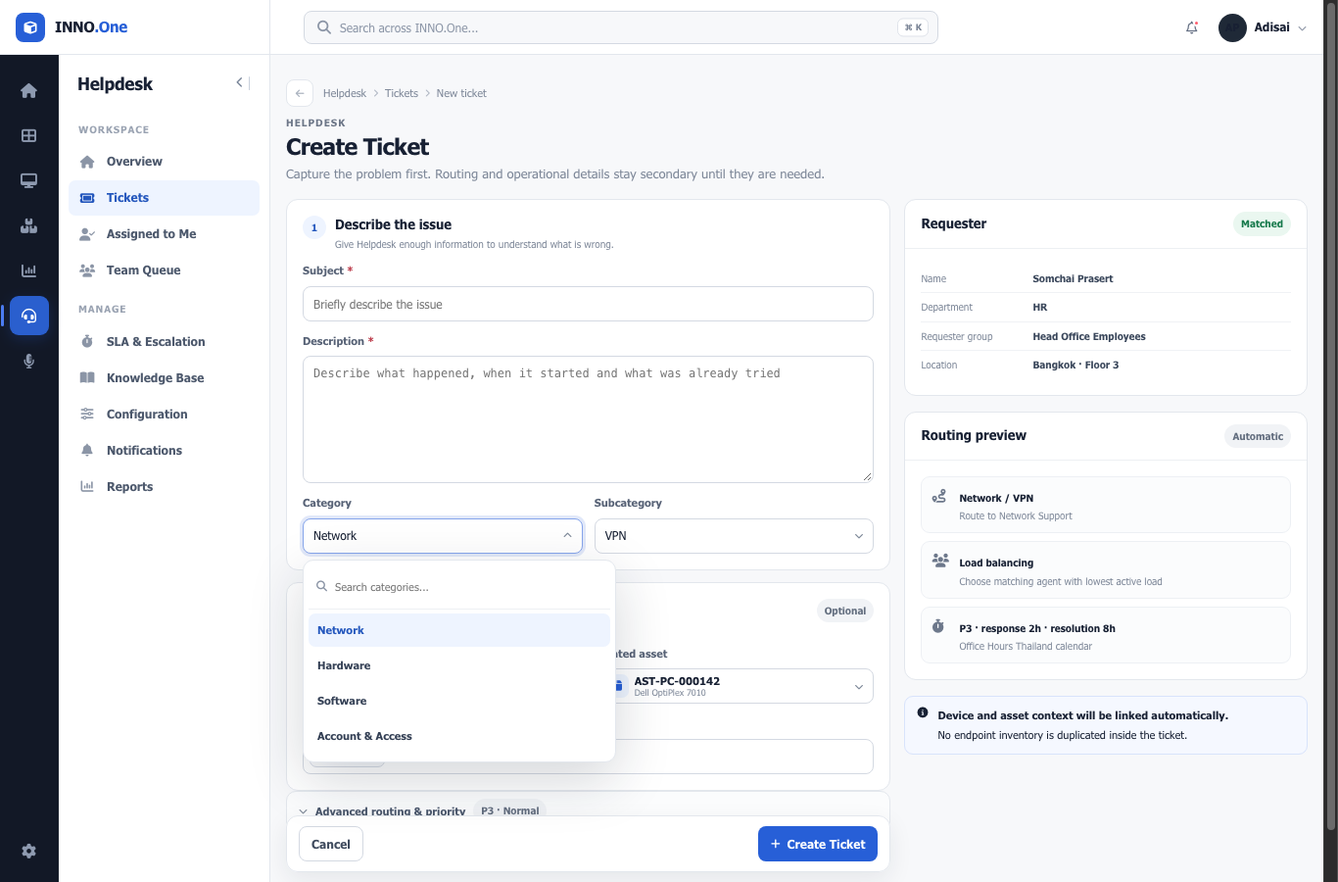
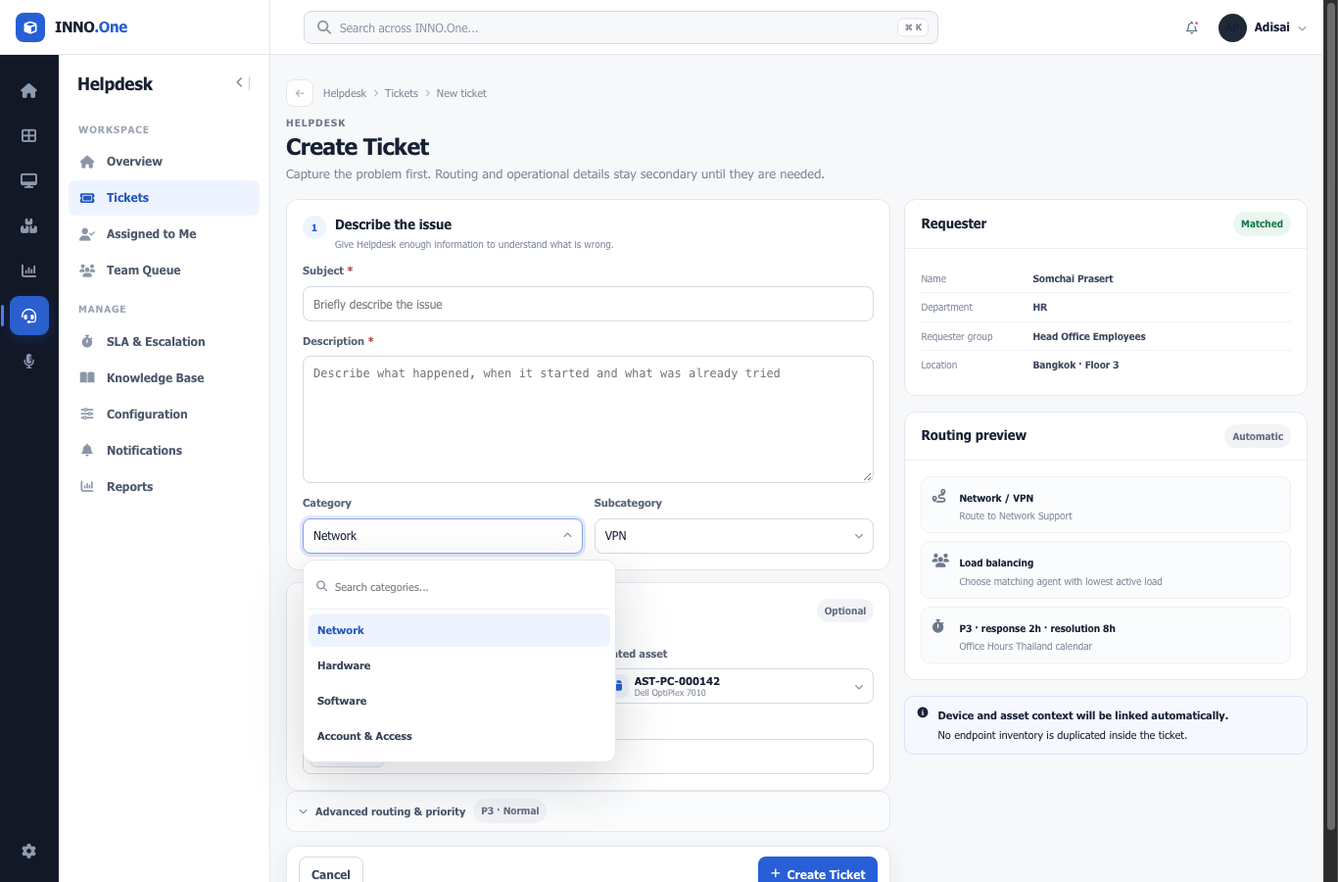
fix: refine action footer docking and builder hierarchy

Changed region(s): [[0.5534, 0.9333, 0.6764, 1.0], [0.2152, 0.9333, 0.2767, 1.0]]

diff --git a/asset-qr.html b/asset-qr.html
@@ -11,7 +11,7 @@
 <label class="qr-select-row" data-search="ast-pc-000178 hp prodesk 600 finance"><input class="qr-asset-check" type="checkbox" data-id="AST-PC-000178"><span class="row-icon"><i class="fa-solid fa-computer"></i></span><span class="grow"><b>AST-PC-000178</b><small>HP ProDesk 600 · Finance Pool · HP-73382</small></span><span class="asset-state repair">Repair</span></label>
 </div></div>
 <div class="ux-section" id="labelSetup"><div class="ux-section-head"><div class="ux-section-title"><span class="ux-step-badge">2</span><div><h3>Label setup</h3><p>Set the physical format once for all selected assets.</p></div></div></div><div class="form"><div class="split"><div class="field"><label>Label size</label><select id="labelSize" data-inno-display="segmented"><option>50 × 30 mm</option><option>40 × 25 mm</option><option>60 × 40 mm</option></select></div><div class="field"><label>Copies per asset</label><select data-inno-display="segmented"><option>1</option><option>2</option><option>3</option></select></div></div><div class="field"><label>Label content</label><div class="label-options"><label><input type="checkbox" checked> Asset No.</label><label><input type="checkbox" checked> Model</label><label><input type="checkbox"> Serial No.</label><label><input type="checkbox"> Company name</label></div></div></div></div>
-<div class="ux-section"><div class="ux-section-head"><div class="ux-section-title"><span class="ux-step-badge">3</span><div><h3>Print preview</h3><p>Generated labels contain an opaque asset token only.</p></div></div><button class="btn secondary" id="generateQrBtn"><i class="fa-solid fa-qrcode"></i>Regenerate</button></div><div class="qr-grid qr-generated" id="generatedQrGrid">
+<div class="ux-section"><div class="ux-section-head"><div class="ux-section-title"><span class="ux-step-badge">3</span><div><h3>Print preview</h3><p>Generated labels contain an opaque asset token only.</p></div></div></div><div class="qr-grid qr-generated" id="generatedQrGrid">
 <div class="qr-label" data-qr-id="AST-PC-000142"><div class="small"><b>INNO.One Asset</b></div><div class="qr-code"><i class="fa-solid fa-qrcode"></i></div><div class="asset-id">AST-PC-000142</div><div class="tiny muted">Dell OptiPlex 7010</div><small class="qr-token">token · a7f4••••92bd</small></div>
 <div class="qr-label" data-qr-id="AST-NB-000087"><div class="small"><b>INNO.One Asset</b></div><div class="qr-code"><i class="fa-solid fa-qrcode"></i></div><div class="asset-id">AST-NB-000087</div><div class="tiny muted">Lenovo ThinkPad T14</div><small class="qr-token">token · b18c••••110e</small></div>
 <div class="qr-label" data-qr-id="AST-MON-000311"><div class="small"><b>INNO.One Asset</b></div><div class="qr-code"><i class="fa-solid fa-qrcode"></i></div><div class="asset-id">AST-MON-000311</div><div class="tiny muted">Dell P2425H</div><small class="qr-token">token · c01a••••7ff3</small></div>
@@ -20,9 +20,9 @@
 <aside class="ux-qr-aside"><div class="card card-pad"><div class="section-title"><div><h3>Print job</h3><div class="small muted">Current selection</div></div><span class="tag success"><i class="fa-solid fa-shield-halved"></i>Protected</span></div><div class="mobile-info-list"><div><span>Assets</span><b>Selected assets only</b></div><div><span>Token</span><b>Opaque asset token</b></div><div><span>Lookup</span><b>Authenticated</b></div><div><span>Output</span><b>Physical QR label</b></div></div></div>
 <details class="ux-advanced"><summary>How QR security works</summary><div class="ux-advanced-body"><div class="qr-security-grid"><div><i class="fa-solid fa-key"></i><span><b>Opaque token</b><small>QR does not expose serial, owner or inventory data.</small></span></div><div><i class="fa-solid fa-user-shield"></i><span><b>Authenticated lookup</b><small>Mobile signs in before loading the asset record.</small></span></div><div><i class="fa-solid fa-clock-rotate-left"></i><span><b>Audit trail</b><small>Scans can be recorded by the future backend.</small></span></div></div></div></details>
 <details class="ux-advanced"><summary>Android mobile integration</summary><div class="ux-advanced-body"><div class="surface-boundary-card"><i class="fa-solid fa-mobile-screen"></i><div><b>INNO.One Assets Mobile</b><span>Android scans the printed token and loads Hardware / Software after authentication. Scanner UI remains a separate Mobile surface.</span></div></div><div class="surface-boundary-flow"><span>Web: Generate / Print</span><i class="fa-solid fa-arrow-right"></i><span>Physical QR</span><i class="fa-solid fa-arrow-right"></i><span>Android: Scan / Lookup</span></div></div></details></aside></div>
-<div class="inno-builder-footer"><div class="inno-builder-footer-end"><button class="btn secondary" id="labelSettingsBtn"><i class="fa-solid fa-sliders"></i>Label Setup</button><button class="btn" id="printSelectedBtn"><i class="fa-solid fa-print"></i>Print Selected</button></div></div>
+<div class="inno-builder-footer"><div class="inno-builder-footer-end"><button class="btn secondary" id="generateQrBtn"><i class="fa-solid fa-rotate"></i>Regenerate Preview</button><button class="btn" id="printSelectedBtn"><i class="fa-solid fa-print"></i>Print Selected</button></div></div>
 <div class="maintenance-footnote"><i class="fa-solid fa-circle-info"></i><span>QR generation, Android camera access, token validation และ asset API lookup เป็น UI prototype เท่านั้น ยังไม่มี backend/mobile runtime จริง</span></div>
 </section></main></div>
 <script>
-const checks=[...document.querySelectorAll(".qr-asset-check")],count=document.getElementById("selectedCount"),grid=[...document.querySelectorAll("[data-qr-id]")];function updateQrSelection(){const selected=checks.filter(c=>c.checked).map(c=>c.dataset.id);count.textContent=selected.length+" selected";grid.forEach(x=>x.hidden=!selected.includes(x.dataset.qrId));document.getElementById("printSelectedBtn").disabled=selected.length===0}checks.forEach(c=>c.onchange=updateQrSelection);document.getElementById("assetQrSearch").oninput=e=>{const q=e.target.value.toLowerCase();document.querySelectorAll(".qr-select-row").forEach(r=>r.style.display=r.dataset.search.includes(q)?"":"none")};document.getElementById("selectAllBtn").onclick=()=>{const all=checks.every(c=>c.checked);checks.forEach(c=>c.checked=!all);document.getElementById("selectAllBtn").textContent=all?"Select all":"Clear all";updateQrSelection()};document.getElementById("generateQrBtn").onclick=()=>window.INNOInteractions?.toast?.("QR labels regenerated for selected assets","success");document.getElementById("labelSettingsBtn").onclick=()=>{document.getElementById("labelSetup").scrollIntoView({behavior:'smooth',block:'center'});setTimeout(()=>document.getElementById("labelSize-trigger")?.focus(),320)};document.getElementById("printSelectedBtn").onclick=()=>{window.INNOInteractions?.toast?.("Print preview prepared for "+checks.filter(c=>c.checked).length+" labels","success");setTimeout(()=>window.print(),250)};updateQrSelection();
+const checks=[...document.querySelectorAll(".qr-asset-check")],count=document.getElementById("selectedCount"),grid=[...document.querySelectorAll("[data-qr-id]")];function updateQrSelection(){const selected=checks.filter(c=>c.checked).map(c=>c.dataset.id);count.textContent=selected.length+" selected";grid.forEach(x=>x.hidden=!selected.includes(x.dataset.qrId));document.getElementById("printSelectedBtn").disabled=selected.length===0}checks.forEach(c=>c.onchange=updateQrSelection);document.getElementById("assetQrSearch").oninput=e=>{const q=e.target.value.toLowerCase();document.querySelectorAll(".qr-select-row").forEach(r=>r.style.display=r.dataset.search.includes(q)?"":"none")};document.getElementById("selectAllBtn").onclick=()=>{const all=checks.every(c=>c.checked);checks.forEach(c=>c.checked=!all);document.getElementById("selectAllBtn").textContent=all?"Select all":"Clear all";updateQrSelection()};document.getElementById("generateQrBtn").onclick=()=>window.INNOInteractions?.toast?.("QR labels regenerated for selected assets","success");document.getElementById("printSelectedBtn").onclick=()=>{window.INNOInteractions?.toast?.("Print preview prepared for "+checks.filter(c=>c.checked).length+" labels","success");setTimeout(()=>window.print(),250)};updateQrSelection();
 </script><script src="inno-inputs.js"></script><script src="inno-interactions.js"></script><script src="inno-states.js"></script><script src="platform-shell.js"></script><script src="inno-responsive.js"></script><script src="inno-navigation.js"></script><script src="inno-icons.js"></script><script src="inno-design-contract.js"></script></body></html>

diff --git a/report-builder.html b/report-builder.html
@@ -11,7 +11,7 @@
 <div class="field"><label>Filters</label><div class="ux-filter-builder"><div class="ux-filter-row"><select aria-label="Department field" disabled><option>Department</option></select><select aria-label="Department operator" data-inno-display="segmented"><option>is</option><option>is not</option></select><select aria-label="Department value" data-inno-combobox><option>All</option><option>HR</option><option>Finance</option><option>IT</option></select></div><div class="ux-filter-row"><select aria-label="Status field" disabled><option>Status</option></select><select aria-label="Status operator" data-inno-display="segmented"><option>is</option><option>is not</option></select><select aria-label="Status value"><option>All</option><option>Online</option><option>Offline</option></select></div></div></div>
 <div class="field"><label>Date range</label><select data-inno-display="segmented"><option>Last 30 days</option><option>This month</option><option>Custom</option></select></div>
 <details class="ux-advanced"><summary>Grouping & sorting</summary><div class="ux-advanced-body"><div class="form"><div class="field"><label>Group by</label><select><option>Brand</option><option>Department</option><option>Operating System</option><option>None</option></select></div><div class="field"><label>Sort</label><select><option>Count · Descending</option><option>Name · Ascending</option></select></div></div></div></details>
-<button class="btn" onclick="refreshPreview()"><i class="fa-solid fa-play"></i>Run Preview</button></div></div></div>
+<div class="ux-action-strip"><button class="btn secondary" onclick="refreshPreview()"><i class="fa-solid fa-play"></i>Run Preview</button></div></div></div></div>
 
 <div class="panel-stack"><div class="panel" id="reportPreviewPanel"><div class="panel-head"><div><h3>Preview</h3><div class="meta" id="previewMeta">Hardware Inventory · 128 rows</div></div></div><div class="panel-body"><div class="preview-chart"><div class="preview-bar" style="height:80%"><span>43</span></div><div class="preview-bar" style="height:68%"><span>37</span></div><div class="preview-bar" style="height:54%"><span>29</span></div><div class="preview-bar" style="height:35%"><span>19</span></div></div></div><div class="table-wrap"><table class="table"><thead><tr><th>Computer Name</th><th>Brand</th><th>Model</th><th>Serial</th></tr></thead><tbody><tr><td>DESKTOP-HR-014</td><td>Dell</td><td>OptiPlex 7010</td><td>DL7K-88421</td></tr><tr><td>NOTEBOOK-IT-003</td><td>Lenovo</td><td>ThinkPad T14</td><td>LNV-23314</td></tr><tr><td>PC-FIN-021</td><td>HP</td><td>ProDesk 600</td><td>HP-73382</td></tr></tbody></table></div></div>
 <div class="panel"><div class="panel-head"><h3>Definition summary</h3><span class="tag success">Reusable</span></div><div class="panel-body"><div class="codebox" id="definition">dataset: devices.hardware

diff --git a/inno-interactions.js b/inno-interactions.js
@@ -324,6 +324,9 @@ function ensureSaveState(scope){
   area.insertBefore(indicator,save);
   return indicator;
 }
+function refreshActionDocks(){
+  requestAnimationFrame(()=>document.querySelectorAll(".inno-editor-footer:not([data-inno-dock-disabled])").forEach(f=>f.__innoDockUpdate?.()));
+}
 function setDirtyState(scopeOrNode,status="unsaved"){
   const scope=scopeOrNode?.matches?.(".content,.arch-editor,.form-layout,.builder-grid,.settings-layout,.notification-grid,.ds-dialog,.drawer")?scopeOrNode:scopeFor(scopeOrNode);
   if(!scope)return;
@@ -337,6 +340,7 @@ function setDirtyState(scopeOrNode,status="unsaved"){
   if(status==="unsaved"||status==="error"){scope.dataset.innoDirty="true";dirtyScopes.add(scope)}
   if(status==="clean"||status==="saved"){delete scope.dataset.innoDirty;dirtyScopes.delete(scope)}
   document.documentElement.dataset.uiDirtyCount=String(dirtyScopes.size);
+  refreshActionDocks();
 }
 function markClean(scopeOrNode,opts={}){
   const scope=scopeOrNode?.dataset?.innoDirty!==undefined||scopeOrNode?.querySelector?.("[data-inno-save]")?scopeOrNode:scopeFor(scopeOrNode);
@@ -509,7 +513,7 @@ function enhanceComponentSemantics(){
 }
 
 function enhanceActionDock(){
-  const selector=".inno-editor-footer:not([data-inno-dock-disabled]),.inno-builder-footer:not([data-inno-dock-disabled]),.inno-wizard-footer:not([data-inno-dock-disabled])";
+  const selector=".inno-editor-footer:not([data-inno-dock-disabled])";
   const footers=[...document.querySelectorAll(selector)];
   if(!footers.length)return;
 
@@ -539,7 +543,9 @@ function enhanceActionDock(){
       const ownerRect=owner.getBoundingClientRect();
       const footerHeight=Math.max(58,Math.round(natural.height));
       const dockBottom=window.innerHeight-(window.innerWidth<=850?6:10);
-      const needsDock=natural.bottom>dockBottom && ownerRect.top<dockBottom-footerHeight && ownerRect.bottom>72;
+      const scope=scopeFor(footer);
+      const isDirty=scope?.dataset?.innoDirty==="true";
+      const needsDock=isDirty && natural.bottom>dockBottom && ownerRect.top<dockBottom-footerHeight && ownerRect.bottom>72;
 
       if(needsDock){
         placeholder.style.height=footerHeight+"px";

diff --git a/inno-design-system.css b/inno-design-system.css
@@ -869,8 +869,8 @@ body{line-height:1.45;text-rendering:optimizeLegibility}
 
 /* UX/UI Final Consistency Pass — canonical action/layout contract */
 .inno-editor-footer{
-  position:sticky;
-  bottom:10px;
+  position:static;
+  bottom:auto;
   z-index:12;
   display:flex;
   align-items:center;
@@ -930,8 +930,8 @@ body{line-height:1.45;text-rendering:optimizeLegibility}
 
 /* Canonical editor / builder / wizard footer alignment */
 .inno-editor-footer,.inno-builder-footer,.inno-wizard-footer{
-  position:sticky;
-  bottom:10px;
+  position:static;
+  bottom:auto;
   z-index:12;
   display:flex;
   align-items:center;
@@ -948,7 +948,7 @@ body{line-height:1.45;text-rendering:optimizeLegibility}
 }
 .inno-editor-footer-start,.inno-wizard-footer-start{margin-right:auto}
 .inno-editor-footer-end,.inno-builder-footer-end,.inno-wizard-footer-end{display:flex;align-items:center;gap:8px;margin-left:auto}
-.inno-builder-footer{position:sticky}
+.inno-builder-footer{position:static}
 @media(max-width:520px){
   .inno-editor-footer,.inno-builder-footer,.inno-wizard-footer{align-items:stretch;flex-direction:column}
   .inno-editor-footer-start,.inno-editor-footer-end,.inno-builder-footer-end,.inno-wizard-footer-start,.inno-wizard-footer-end{width:100%;margin-left:0;margin-right:0}
@@ -983,12 +983,10 @@ body{line-height:1.45;text-rendering:optimizeLegibility}
 .inno-action-dock-owner.has-docked-actions{padding-bottom:72px!important}
 @media(max-width:850px){
   .inno-editor-footer,.inno-builder-footer,.inno-wizard-footer{
-    position:sticky;
-    bottom:6px;
+    position:static;
+    bottom:auto;
   }
-  .inno-editor-footer.is-docked,
-  .inno-builder-footer.is-docked,
-  .inno-wizard-footer.is-docked{bottom:6px!important}
+  .inno-editor-footer.is-docked{bottom:6px!important}
 }
 
 /* Primary work comes before supporting saved definitions on narrow Inventory Query layouts. */

diff --git a/qa-ux-input-browser.py b/qa-ux-input-browser.py
@@ -53,7 +53,7 @@ for w in (1366,1024,768):
     route_fails=[]
     for page in WEB:
         c.nav(page,"?qaMetrics=1")
-        m=c.eval("""(()=>{const sels=[...document.querySelectorAll('select')];const expected=sels.filter(s=>!s.hasAttribute('data-inno-native')&&!s.closest('.mock-desktop,.android-phone')).length;const enhanced=sels.filter(s=>s.dataset.innoEnhanced).length;const visibleNative=sels.filter(s=>{const r=s.getBoundingClientRect(),cs=getComputedStyle(s);return cs.position!=='absolute'&&cs.display!=='none'&&r.width>3&&r.height>3}).length;const visible=e=>{const r=e.getBoundingClientRect(),cs=getComputedStyle(e);return cs.display!=='none'&&cs.visibility!=='hidden'&&r.width>0&&r.height>0};const footers=[...document.querySelectorAll('.inno-editor-footer,.inno-builder-footer,.inno-wizard-footer')].filter(visible);const footerPositions=[...new Set(footers.map(x=>getComputedStyle(x).position))];const highDisabled=[...document.querySelectorAll('.page-head .actions .btn[disabled],.page-head .actions .btn[aria-disabled="true"],.resource-actions .btn[disabled],.resource-actions .btn[aria-disabled="true"]')].filter(visible).length;const footerInViewport=footers.every(x=>{const r=x.getBoundingClientRect();return r.top>=0&&r.bottom<=innerHeight+2});return {overflow:document.documentElement.scrollWidth>innerWidth+2,inputSystem:document.documentElement.dataset.innoInputSystem==='1',selects:sels.length,expected,enhanced,visibleNative,popovers:document.querySelectorAll('.inno-picker-popover').length,sideHash:[...document.querySelectorAll('.side a')].filter(a=>(a.getAttribute('href')||'').includes('#')).length,footerPositions,footerInViewport,highDisabled}})()""")
+        m=c.eval("""(()=>{const sels=[...document.querySelectorAll('select')];const expected=sels.filter(s=>!s.hasAttribute('data-inno-native')&&!s.closest('.mock-desktop,.android-phone')).length;const enhanced=sels.filter(s=>s.dataset.innoEnhanced).length;const visibleNative=sels.filter(s=>{const r=s.getBoundingClientRect(),cs=getComputedStyle(s);return cs.position!=='absolute'&&cs.display!=='none'&&r.width>3&&r.height>3}).length;const visible=e=>{const r=e.getBoundingClientRect(),cs=getComputedStyle(e);return cs.display!=='none'&&cs.visibility!=='hidden'&&r.width>0&&r.height>0};const highDisabled=[...document.querySelectorAll('.page-head .actions .btn[disabled],.page-head .actions .btn[aria-disabled="true"],.resource-actions .btn[disabled],.resource-actions .btn[aria-disabled="true"]')].filter(visible).length;const cleanDocked=document.querySelectorAll('.inno-editor-footer.is-docked,.inno-builder-footer.is-docked,.inno-wizard-footer.is-docked').length;return {overflow:document.documentElement.scrollWidth>innerWidth+2,inputSystem:document.documentElement.dataset.innoInputSystem==='1',selects:sels.length,expected,enhanced,visibleNative,popovers:document.querySelectorAll('.inno-picker-popover').length,sideHash:[...document.querySelectorAll('.side a')].filter(a=>(a.getAttribute('href')||'').includes('#')).length,cleanDocked,highDisabled}})()""")
         bad=[]
         if m["overflow"]:bad.append("overflow")
         if not m["inputSystem"]:bad.append("input-system-missing")
@@ -62,7 +62,7 @@ for w in (1366,1024,768):
         if m["popovers"]:bad.append("orphan-popover")
         if m["sideHash"]:bad.append(f"side-hash-links={m['sideHash']}")
         if m["highDisabled"]:bad.append(f"high-emphasis-disabled={m['highDisabled']}")
-        if m["footerPositions"] and not m["footerInViewport"]:bad.append(f"footer-not-visible={m['footerPositions']}")
+        if m["cleanDocked"]:bad.append(f"clean-footer-docked={m['cleanDocked']}")
         if bad:route_fails.append((page,bad))
     check(f"All {len(WEB)} Web routes pass Input System at {w}",not route_fails,route_fails[:6])
 # Ticket: combobox, resource picker and segmented controls retain backing select events.
@@ -218,13 +218,15 @@ check("Report catalog uses query route and restores selected report",c.eval("doc
 # Final Action/Layout contract regression.
 c.viewport(1366);c.nav("endpoint-policies.html")
 check("Endpoint Policies defaults to Policies editor view",c.eval("document.querySelector('[data-view=policies]').hidden===false && document.querySelector('[data-view=compliance]').hidden===true && document.querySelector('[data-policy-view=policies]').classList.contains('active')"))
-check("Endpoint Policies editor footer belongs to editor pane",c.eval("document.querySelector('.inno-editor-pane > .inno-editor-footer')!==null && getComputedStyle(document.querySelector('.inno-editor-footer')).position==='sticky'"))
+check("Endpoint Policies editor footer belongs to editor pane",c.eval("document.querySelector('.inno-editor-pane > .inno-editor-footer')!==null && getComputedStyle(document.querySelector('.inno-editor-footer')).position==='static'"))
 check("Endpoint Policies has no unavailable competing footer action",c.eval("document.querySelectorAll('.inno-editor-footer [disabled],.inno-editor-footer [aria-disabled=\"true\"]').length===0 && !document.body.textContent.includes('Preview Impact')"))
 c.nav("endpoint-policies.html","?view=compliance")
 check("Endpoint Policies Compliance is a separate view",c.eval("document.querySelector('[data-view=policies]').hidden===true && document.querySelector('[data-view=compliance]').hidden===false && document.querySelector('[data-policy-view=compliance]').classList.contains('active')"))
 
 c.viewport(768);c.nav("endpoint-policies.html")
-check("Editor footer stays visible at tablet width",c.eval("""(()=>{const f=document.querySelector('.inno-editor-footer'),r=f.getBoundingClientRect();return r.top>=0&&r.bottom<=innerHeight+2&&(f.classList.contains('is-docked')||['sticky','fixed'].includes(getComputedStyle(f).position))})()"""))
+check("Clean editor footer does not cover tablet content",c.eval("""(()=>{const f=document.querySelector('.inno-editor-footer');return !f.classList.contains('is-docked')&&getComputedStyle(f).position==='static'})()"""))
+c.eval("""(()=>{const r=[...document.querySelectorAll('input[name="usb"]')].find(x=>!x.checked);r.click()})()""");time.sleep(.06)
+check("Dirty editor footer docks to owning pane at tablet width",c.eval("""(()=>{const f=document.querySelector('.inno-editor-footer'),r=f.getBoundingClientRect(),owner=f.parentElement.getBoundingClientRect();return f.classList.contains('is-docked')&&getComputedStyle(f).position==='fixed'&&r.top>=0&&r.bottom<=innerHeight+2&&Math.abs(r.left-owner.left)<=2&&Math.abs(r.width-owner.width)<=2})()"""))
 
 c.viewport(1366);c.nav("device-query.html")
 check("Inventory Query actions belong to builder, not page header",c.eval("document.querySelector('.page-head .actions')===null && document.querySelector('.query-workspace > .inno-builder-footer #saveQuery')!==null && document.querySelector('.query-workspace > .inno-builder-footer #runQuery')!==null"))
@@ -237,7 +239,7 @@ check("Dynamic Group deep link opens builder tab",c.eval("document.querySelector
 check("Dynamic Group save belongs to builder footer",c.eval("document.querySelector('[data-panel=dynamic] > .inno-builder-footer [data-inno-save]')!==null && document.querySelectorAll('[data-panel=dynamic] button[disabled]').length===0"))
 
 c.nav("asset-qr.html")
-check("QR workflow actions moved out of page header",c.eval("document.querySelector('.page-head .actions')===null && document.querySelector('.inno-builder-footer #printSelectedBtn')!==null && document.querySelector('.inno-builder-footer #labelSettingsBtn')!==null"))
+check("QR workflow actions moved out of page header",c.eval("document.querySelector('.page-head .actions')===null && document.querySelector('.inno-builder-footer #printSelectedBtn')!==null && document.querySelector('.inno-builder-footer #generateQrBtn')!==null && !document.getElementById('labelSettingsBtn')"))
 
 print(f"checks={checks}")
 print(f"failures={len(fails)}")

diff --git a/INNO-One-Action-Layout-Contract.md b/INNO-One-Action-Layout-Contract.md
@@ -97,12 +97,12 @@ Editor content
 ┌────────────────────────────────────────────┐
 │ [Discard / Cancel]              [Save]     │
 └────────────────────────────────────────────┘
-       canonical sticky editor footer
+       canonical editor footer
 ```
 
 Rules:
 - Save/Create/Schedule/Apply belongs in the canonical editor footer.
-- The footer is sticky to the bottom of the editor column, not the whole browser viewport.
+- The footer sits at the end of the owning editor in normal flow. After that editor becomes dirty, it may dock to the bottom of the viewport while preserving the editor column width.
 - Primary action is always the right-most action.
 - Cancel/Discard is left-most when present.
 - Secondary preview/testing action may sit before Primary only when it is implemented and relevant.
@@ -136,7 +136,7 @@ Builder:
 ```
 
 Rules:
-- navigation actions live in a sticky builder/wizard footer.
+- navigation/final actions live in a canonical builder/wizard footer at the end of that workflow; they do not float over untouched content.
 - Back precedes Continue.
 - Final step changes Continue to the final command.
 - Preview belongs in the builder toolbar only if it updates an adjacent preview; otherwise use the footer.
@@ -314,9 +314,11 @@ Allowed:
 
 All breakpoints:
 - action footer belongs to the editor/builder/wizard that owns the pending change,
-- if the footer's natural position is below the viewport, it docks to the viewport edge while retaining the exact left/width of its owning pane,
-- once the natural footer reaches the viewport, it returns to document flow,
-- the owning pane reserves bottom safe space while docked so the final field/section can scroll clear of the action bar.
+- untouched screens keep action footers in normal document flow so buttons never cover content,
+- editor footers may dock only after the editor has unsaved changes,
+- a docked editor footer retains the exact left/width of its owning pane,
+- the owning pane reserves bottom safe space while docked so the final field/section can scroll clear of the action bar,
+- builder/wizard footers remain in normal flow unless a future workflow explicitly requires persistent navigation.
 
 Desktop:
 - editor footer aligns to the owning editor column, never the supporting aside or the full page by accident,
@@ -324,8 +326,8 @@ Desktop:
 
 Tablet / narrow (≤850px):
 - supporting aside moves below the primary editor,
-- the docked action footer uses the stacked editor width after the sidebar collapses,
-- the primary action remains visible while the user edits a long form.
+- dirty-state docking uses the stacked editor width after the sidebar collapses,
+- untouched content is never hidden behind an action bar.
 
 Mobile:
 - footer actions may stack only when necessary,

diff --git a/INNO-One-Next-Chat-Handoff.md b/INNO-One-Next-Chat-Handoff.md
@@ -767,10 +767,11 @@ Key changes:
 - Editor 18 / Builder 4 / Wizard 1 / Resource Detail 6 / Overview-List 54.
 - All 18 editors now use canonical `INNOActionFooter`; legacy editor footer classes = 0.
 - Builders use `inno-builder-footer`; Deployment uses `inno-wizard-footer`.
-- Long task footers dock to the exact owning pane while below the viewport and reserve bottom safe space.
+- Clean task footers stay in normal flow so they never cover untouched content; editor footers dock to the exact owning pane only after that editor has unsaved changes and reserve bottom safe space.
 - `endpoint-policies.html` was restructured into separate Policies and Compliance views; disabled Preview Impact no longer competes with Save.
 - Inventory Query puts Query Builder before Saved Queries on narrow layouts and contains wide results inside the table scroll region.
 - High-emphasis disabled actions = 0; multiple primary action-zone violations = 0.
 - Application hash links = 0; broken local routes = 0.
 
 Do not begin Backend implementation until the user explicitly asks. Further work after this freeze should be visual/content-specific QA or production frontend implementation.
+- Follow-up visual QA confirmed clean action bars no longer float over long forms; dirty-state editor docking is covered by browser regression.

diff --git a/INNO-One-UI-Prototype-Summary.md b/INNO-One-UI-Prototype-Summary.md
@@ -317,3 +317,8 @@ Legacy application-shell hash navigation has been removed. Distinct navigation j
 ## 18. Final Action/Layout consistency — 2026-09-25
 
 Design System V1.19 / UI Contract 1.13.0 adds a canonical action-placement contract across all 83 Web routes. Overview/List creation actions live in Page Headers, Resource Detail operations live in Resource Actions, and editor/builder/wizard commits live in pane-owned action footers. Endpoint Policies is the reference master/editor page and separates policy editing from compliance monitoring. Docked task footers preserve the owning pane width and reserve bottom safe space at desktop and narrow viewports.
+
+
+## 18. Action footer visual follow-up — 2026-09-25
+
+The Action/Layout freeze was visually refined after route-wide review. Clean pages keep editor/builder/wizard footers in normal document flow so actions do not obscure untouched content. Once an editor becomes dirty, its canonical editor footer may dock to the owning pane until the change is saved/discarded. QR Labels now uses `Regenerate Preview` + `Print Selected` as the final builder actions, and Report Builder treats `Run Preview` as a secondary workflow action while `Save Report` remains the final primary action.

diff --git a/INNO-One-Final-Visual-QA-Baseline.md b/INNO-One-Final-Visual-QA-Baseline.md
@@ -183,7 +183,7 @@ The canonical visual baseline now includes Design System V1.19 / UI Contract 1.1
 - Builder/Wizard actions use their owning footer zones.
 - Resource Detail operations stay in resource action zones.
 - Overview/List create actions remain in Page Headers while table tools stay with the table.
-- Docked task footers preserve editor-pane width and bottom safe space on long forms.
+- Clean action footers remain in normal flow; dirty editor footers may dock while preserving editor-pane width and bottom safe space.
 - Endpoint Policies editing and Compliance monitoring are separate views.
 - Action/Layout automated audit must remain at 0 issues.
 
@@ -191,6 +191,6 @@ Action/Layout verification at freeze:
 - Page type coverage: 83 / 83.
 - Editor / Builder / Wizard / Resource Detail / Overview-List = 18 / 4 / 1 / 6 / 54.
 - `action-layout-audit.py`: 0 issues.
-- `qa-ux-input-browser.py`: 73 checks / 0 failures, including all 83 Web routes at 1366 / 1024 / 768.
+- `qa-ux-input-browser.py`: 74 checks / 0 failures, including all 83 Web routes at 1366 / 1024 / 768 and clean-vs-dirty editor footer behavior.
 - `qa-final-visual.py`: 116 checks / 0 failures.
 - Screenshot manifest verification: 100 / 100 hashes.

diff --git a/INNO-One-Design-System-V1-Frozen.md b/INNO-One-Design-System-V1-Frozen.md
@@ -364,7 +364,7 @@ A new module is UI-complete only when it:
 - Added `INNOActionFooter` as a shared layout contract instead of allowing editor Save/Create/Schedule actions to float between headers, cards and page bottoms.
 - Classified all 83 Web routes into Editor, Builder, Wizard, Resource Detail or Overview/List action ownership.
 - `endpoint-policies.html` is the reference master/editor implementation: Policies editing is separated from Compliance monitoring.
-- Editor / builder / wizard action bars dock to their owning pane while below the viewport and preserve bottom safe space.
+- Clean editor / builder / wizard action bars stay in normal flow. Editor actions dock to their owning pane only after unsaved changes exist, preserving pane width and bottom safe space.
 - Removed unavailable/Coming Soon actions from high-emphasis action zones.
 - Responsive primary-work ordering was corrected for Inventory Query and grid min-content no longer causes page overflow.
 - `action-layout-audit.py` is now part of the frozen regression contract.
